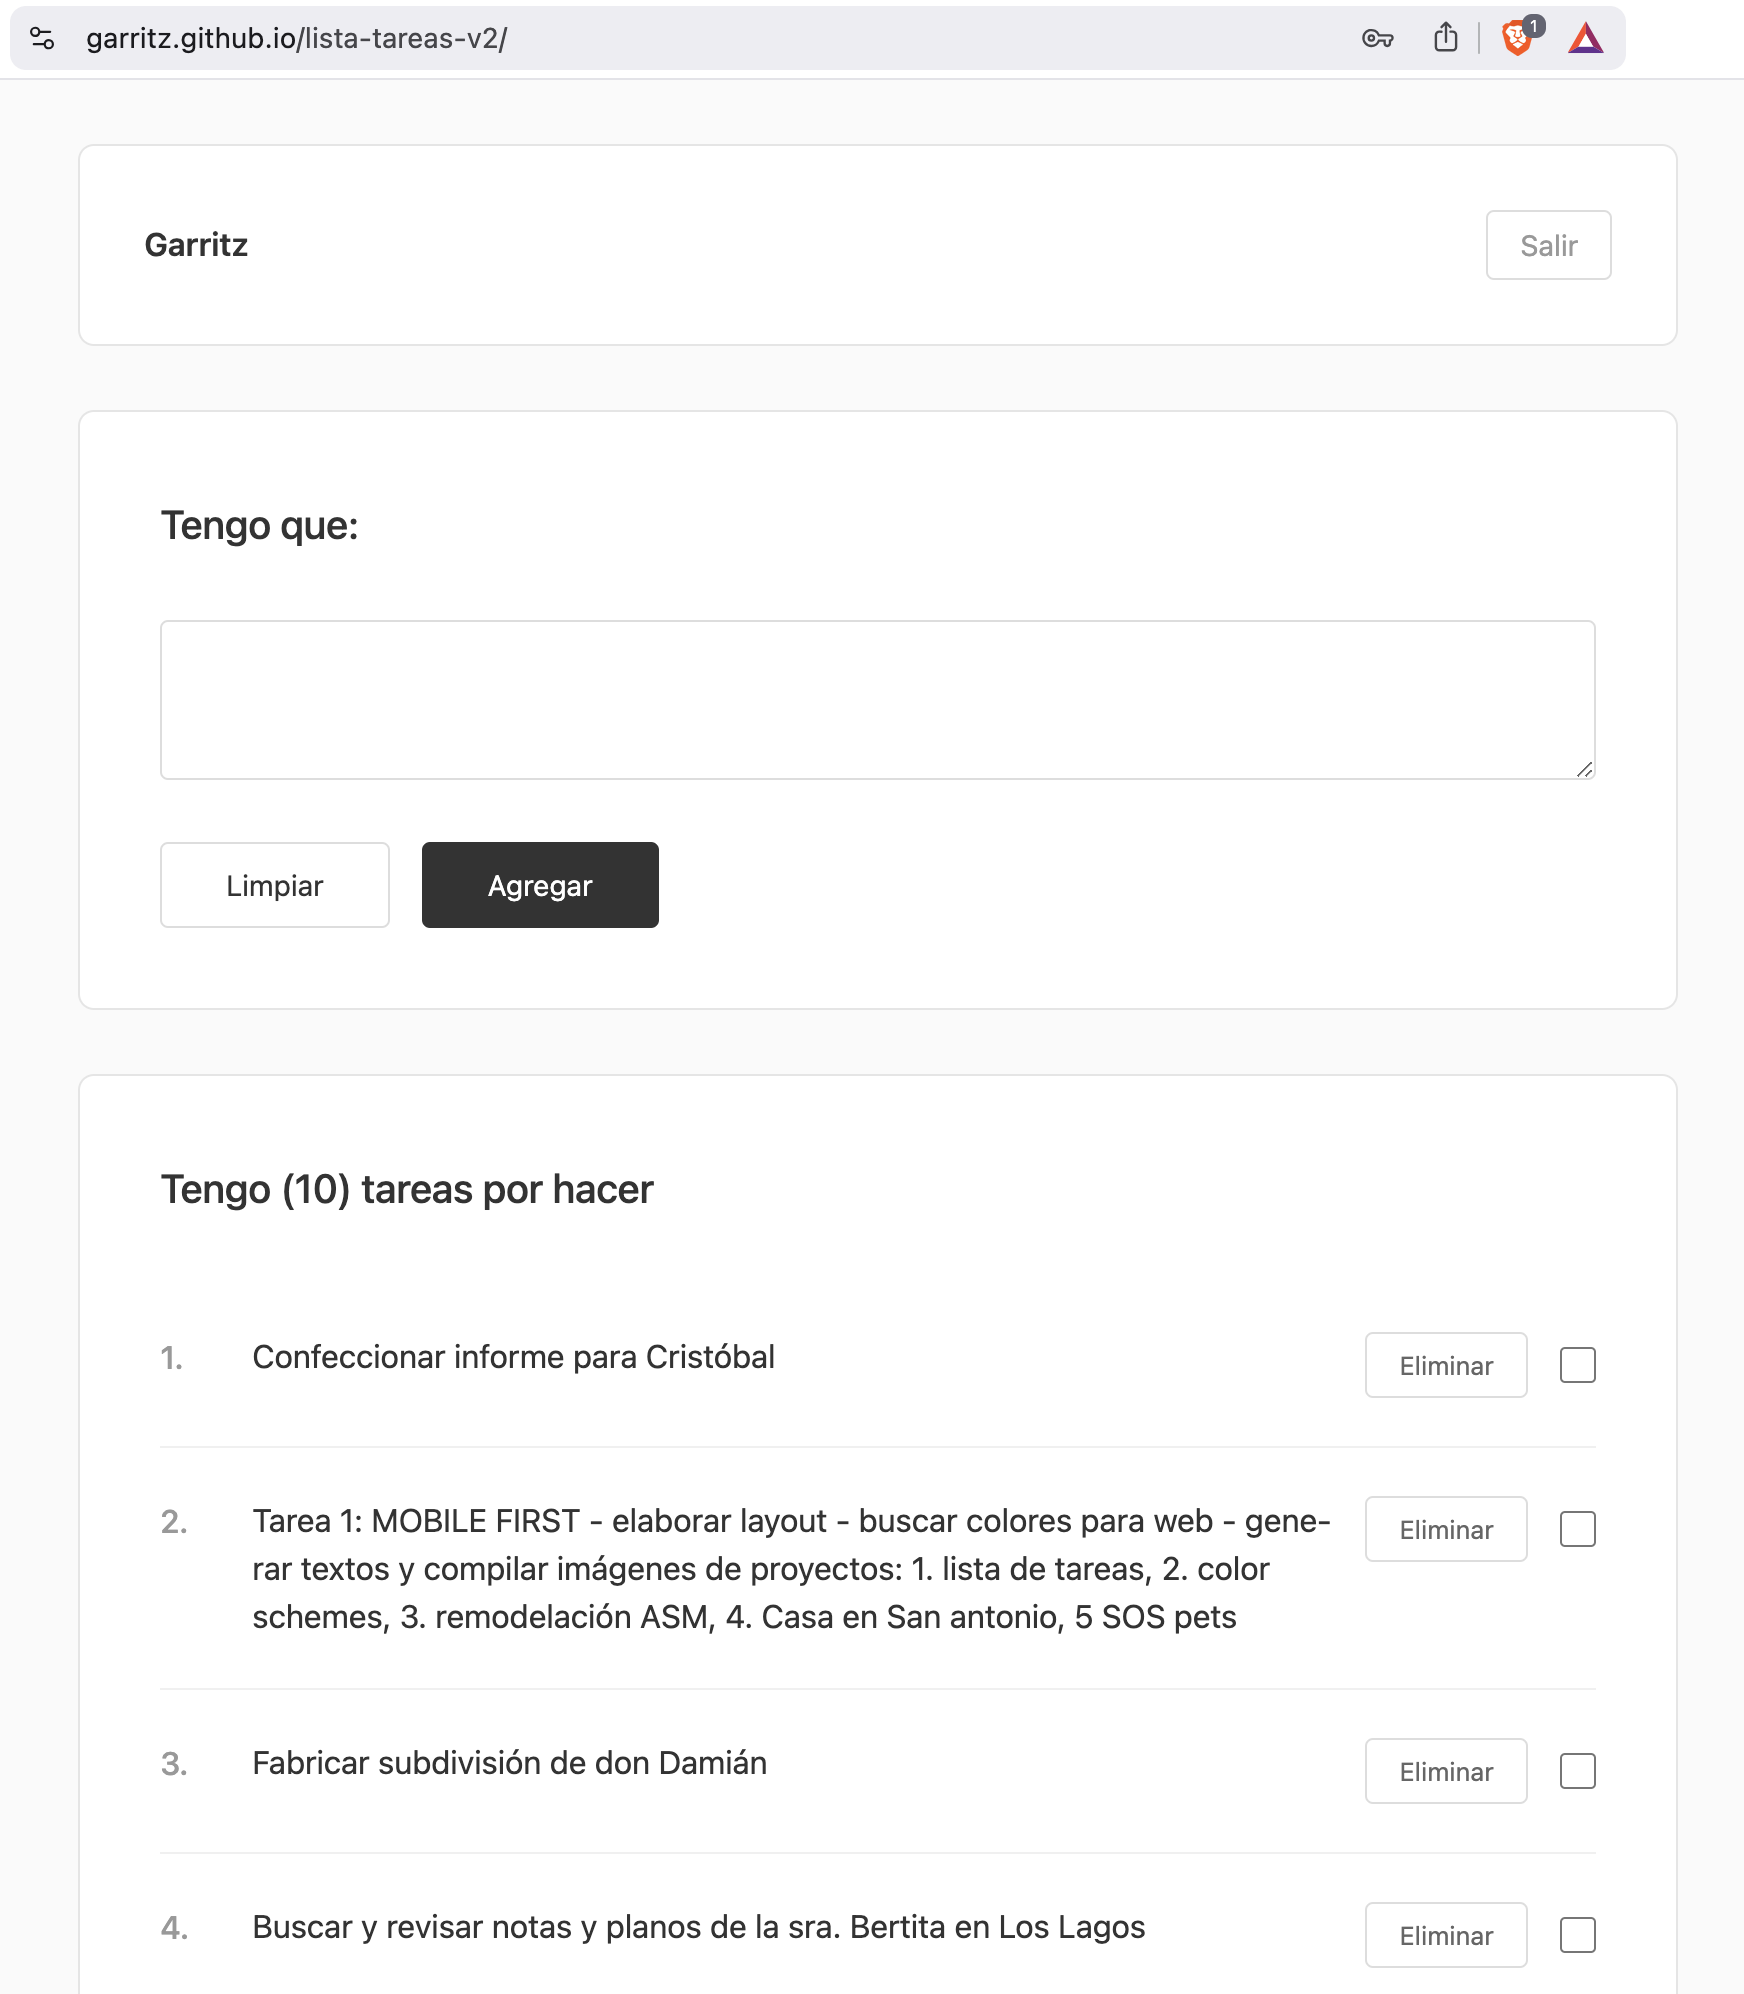
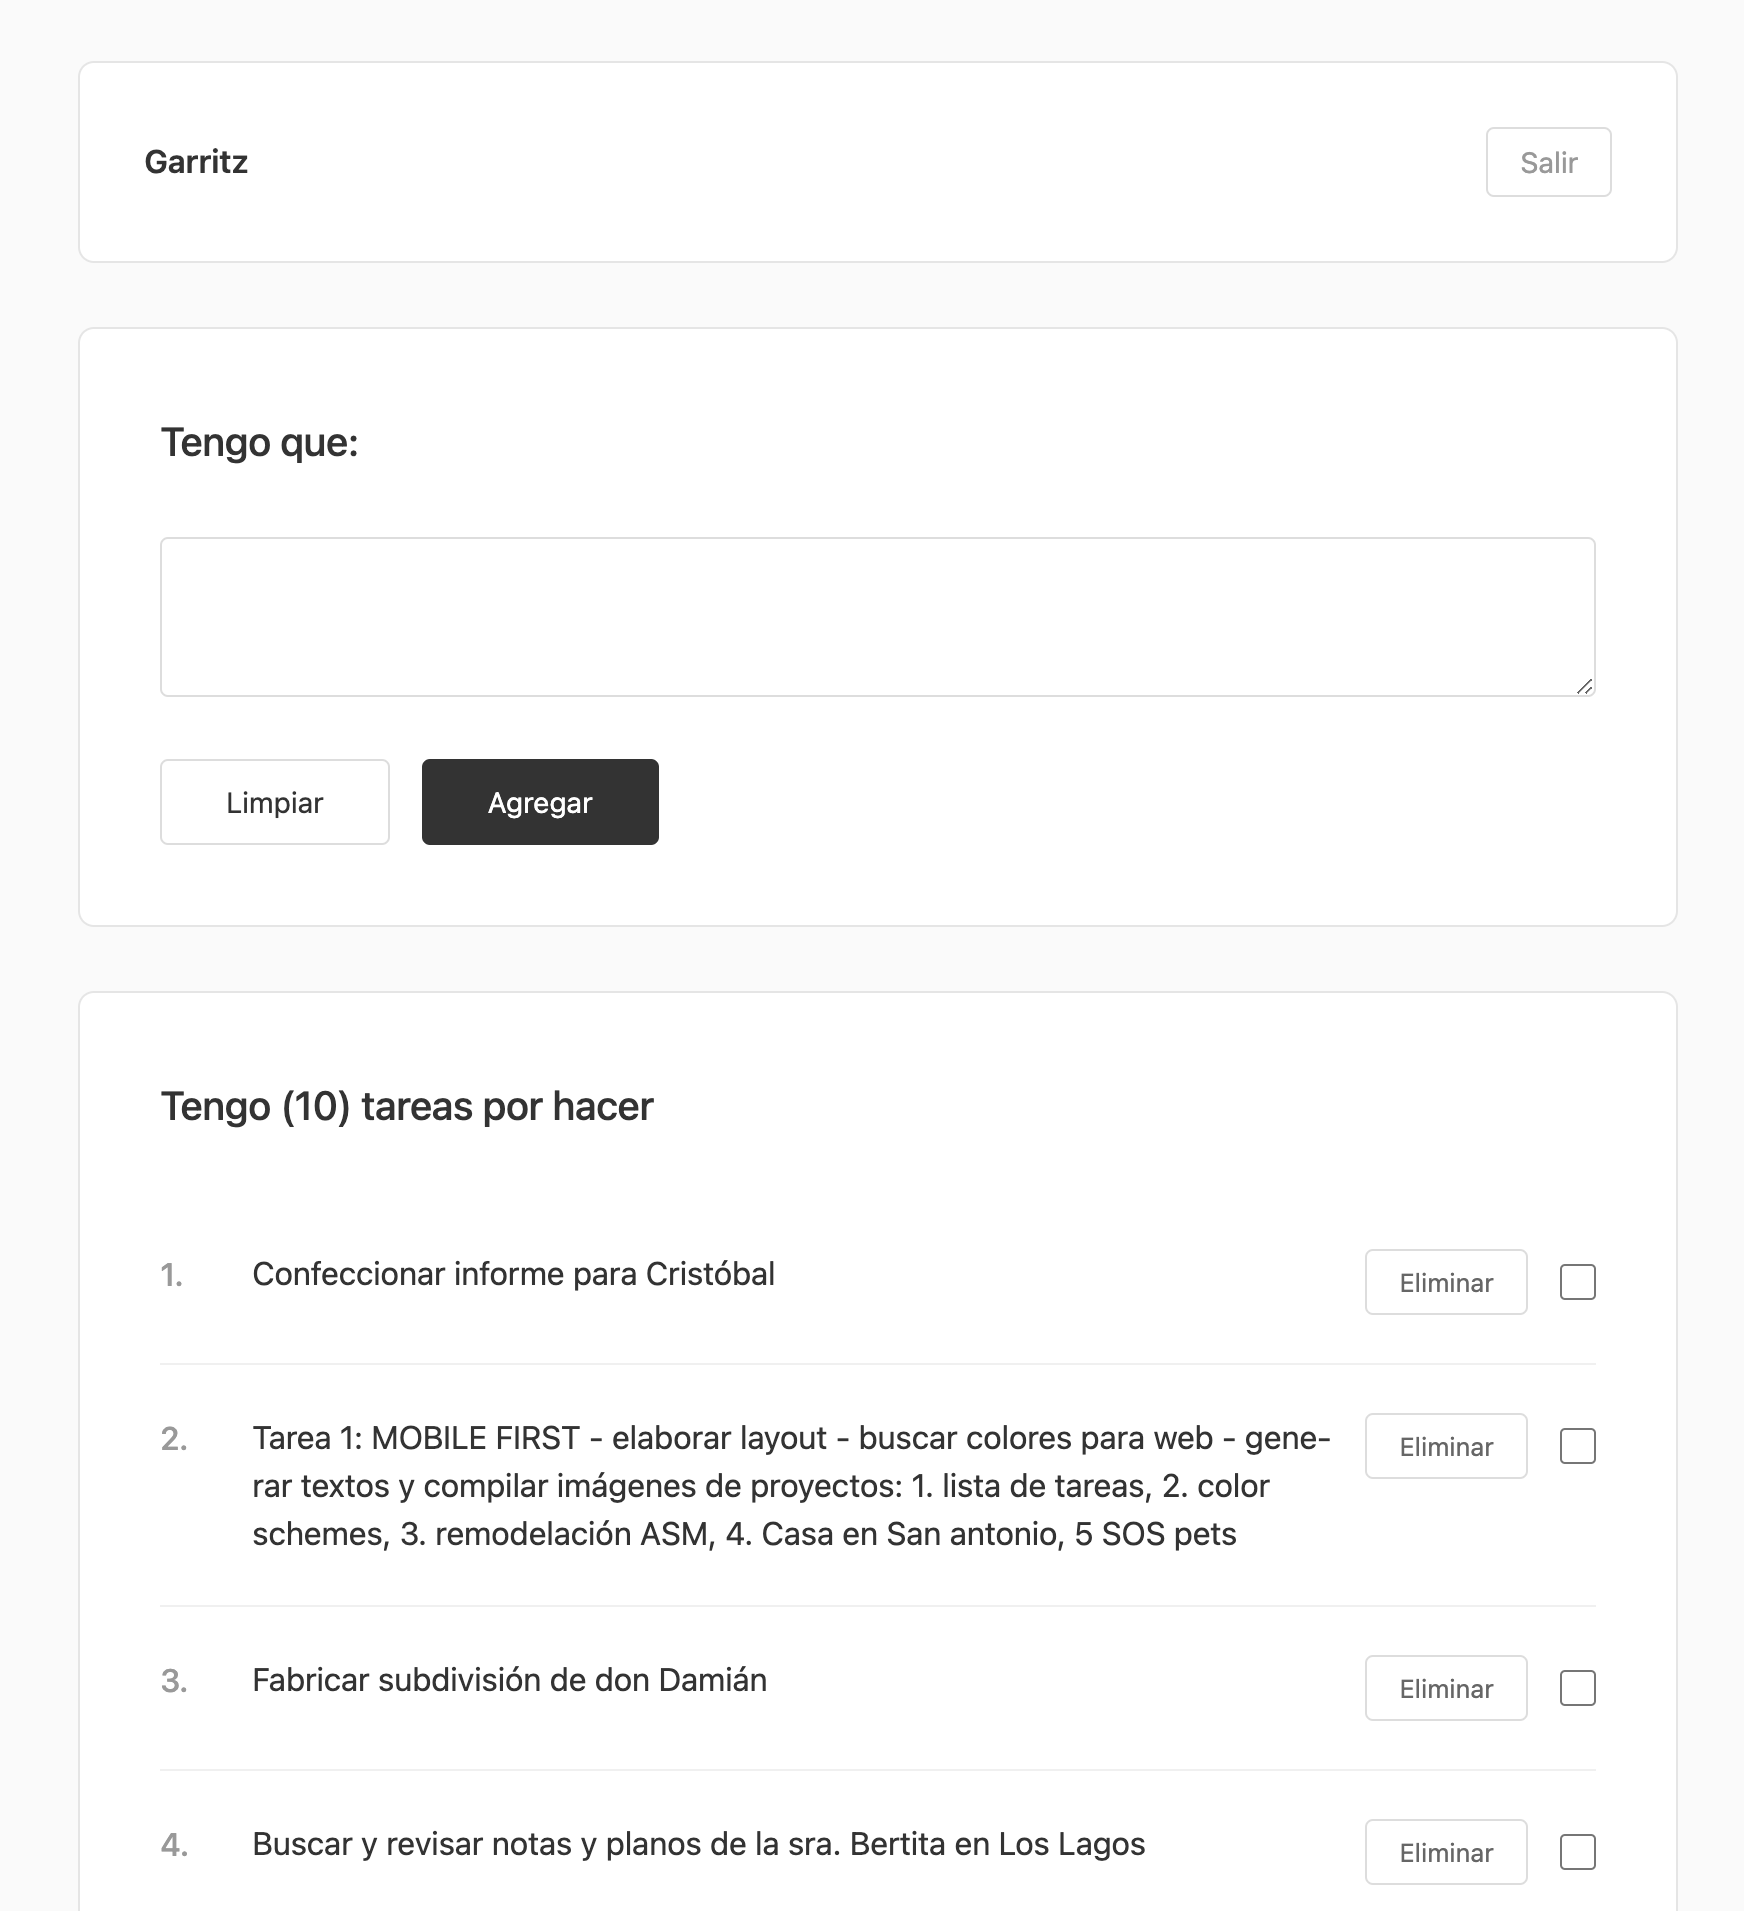
Links agregados

diff --git a/index.html b/index.html
@@ -26,7 +26,7 @@
             display: flex;
             justify-content: start;
             gap: 3rem;
-            padding: 1rem 3.5rem 0.5rem 1.5rem;
+            padding: 0.5rem 3.5rem 0.5rem 1.5rem;
             background-color: #F3F7EE;
             max-width: 500px;
             margin: 0 auto;
@@ -112,7 +112,7 @@
             font-family: 'Open Sans', sans-serif;
             font-weight: 700;
             font-size: 16px;
-            color: #d97662;
+            color: #222222;
             text-decoration: none;
         }
 
@@ -120,11 +120,13 @@
             font-family: 'Bitter', serif;
             font-weight: 700;
             font-size: 20px;
+            color: #222222;
             text-decoration: none;
         }
 
         a.link-body:hover,
         a.link-h2:hover {
+            color: #2F8F84;
             text-decoration: underline;
         }
 
@@ -142,7 +144,7 @@
             margin-bottom: 0;
         }
 
-        .project-item:hover h2 {
+        .project-item:hover h1 {
             color: #2F8F84;
         }
 
@@ -167,7 +169,7 @@
 
         .back-button {
             display: inline-block;
-            color: #2F8F84;
+            color: #222222;
             text-decoration: none;
             margin-bottom: 1.5rem;
             font-family: 'Open Sans', sans-serif;
@@ -233,9 +235,9 @@
             
             <p>En Talento Digital construí una app de gestión de tareas que llevé hasta la nube, aplicando la misma lógica con la que proyecto edificios: estructura, función y experiencia.</p>
             
-            <p>Lo que ofrezco es único: puedo conversar con ingenieros estructurales y con desarrolladores para juntos traducir necesidades del mundo físico a soluciones digitales.</p>
+            <p>Lo que ofrezco es único: puedo sentarme con ingenieros estructurales y con desarrolladores para juntos traducir necesidades del mundo físico a soluciones digitales.</p>
             
-            <p>Actualmente estoy en búsqueda de nuevos desafíos profesionales en PropTech, BIM u otros espacios donde mi doble mirada genere valor real.</p>
+            <p>Actualmente estoy en búsqueda de nuevos desafíos profesionales en PropTech, BIM o construcción, donde mi doble mirada genere valor real.</p>
         </div>
 
         <!-- Sección Proyectos -->
@@ -243,27 +245,27 @@
             <div id="project-list-view">
                 <ul class="project-list">
                     <li class="project-item" data-project="lista-tareas">
-                        <h2>Lista de tareas</h2>
-                        <p class="project-desc">Minimalista y efectiva.</p>
+                        <h1>Lista de tareas</h1>
+                        <p class="subtitle">Minimalista y efectiva.</p>
                     </li>
                     <li class="project-item" data-project="esquemas-color">
-                        <h2>Esquemas de color exterior</h2>
-                        <p class="project-desc">Edificio La Fontana de Santa María.</p>
+                        <h1>Esquemas de color exterior</h1>
+                        <p class="subtitle">Edificio La Fontana de Santa María.</p>
                     </li>
                     <li class="project-item" data-project="casa-san-antonio">
-                        <h2>Casa en San Antonio, Chile</h2>
-                        <p class="project-desc">Remodelación arquitectónica.</p>
+                        <h1>Casa en San Antonio, Chile</h1>
+                        <p class="subtitle">Remodelación arquitectónica.</p>
                     </li>
                     <li class="project-item" data-project="sos-pets">
-                        <h2>S.O.S. Pets</h2>
-                        <p class="project-desc">Proyecto UX/UI.</p>
+                        <h1>S.O.S. Pets</h1>
+                        <p class="subtitle">Proyecto UX/UI.</p>
                     </li>
                 </ul>
             </div>
 
             <!-- Detalles de proyectos -->
             <div id="lista-tareas" class="project-detail">
-                <a href="#" class="back-button" onclick="showProjectList(); return false;">← Volver</a>
+                <a href="#" class="back-button" onclick="showProjectList(); return false;">Volver</a>
                 
                 <h1>Lista de tareas</h1>
                 <h2 class="subtitle">Minimalista y efectiva.</h2>
@@ -271,15 +273,15 @@
                 <p>Una aplicación web multiplataforma diseñada como apoyo cognitivo sin distracciones. Frontend desplegado en GitHub Pages conectado a backend en Render con MongoDB, permitiendo sincronización entre dispositivos y soporte multiusuario. Interfaz austera construida con HTML, CSS y JavaScript vainilla, enfocada en organización diaria efectiva.</p>
                 
                 <div class="project-links">
-                    <a href="https://github.com/Garritz" target="_blank" class="link-body">Código fuente en Github.</a>
-                    <a href="#" onclick="alert('Demo de la app'); return false;" class="link-body">Enlace a la app.</a>
+                    <a href="https://github.com/Garritz/lista-tareas-v2.git" target="_blank" class="link-body">Código fuente en Github.</a>
+                    <a href="https://garritz.github.io/lista-tareas-v2/" target="_blank" class="link-body">Enlace a la app.</a>
                 </div>
 
                 <img src="/assets/img/tareas.png" alt="Lista de tareas app" class="project-image">
             </div>
 
             <div id="esquemas-color" class="project-detail">
-                <a href="#" class="back-button" onclick="showProjectList(); return false;">← Volver</a>
+                <a href="#" class="back-button" onclick="showProjectList(); return false;">Volver</a>
                 
                 <h1>Esquemas de color exterior</h1>
                 <h2 class="subtitle">Edificio La Fontana de Santa María.</h2>
@@ -287,15 +289,15 @@
                 <p>Construí un sitio web estático para presentar las opciones de color de pintura exterior para el edificio.</p>
                 
                 <div class="project-links">
-                    <a href="https://github.com/Garritz" target="_blank" class="link-body">Código fuente en Github.</a>
-                    <a href="#" onclick="alert('Ver sitio web'); return false;" class="link-body">Enlace al sitio web.</a>
+                    <a href="https://github.com/Garritz/Site.git" target="_blank" class="link-body">Código fuente en Github.</a>
+                    <a href="https://garritz.github.io/Site/" target="_blank" class="link-body">Enlace al sitio web.</a>
                 </div>
                 
                 <img src="/assets/img/fontana.jpg" alt="Edificio La Fontana" class="project-image">
             </div>
 
             <div id="casa-san-antonio" class="project-detail">
-                <a href="#" class="back-button" onclick="showProjectList(); return false;">← Volver</a>
+                <a href="#" class="back-button" onclick="showProjectList(); return false;">Volver</a>
                 
                 <h1>Casa en San Antonio, Chile</h1>
                 <h2 class="subtitle">Remodelación arquitectónica.</h2>
@@ -306,7 +308,7 @@
             </div>
 
             <div id="sos-pets" class="project-detail">
-                <a href="#" class="back-button" onclick="showProjectList(); return false;">← Volver</a>
+                <a href="#" class="back-button" onclick="showProjectList(); return false;">Volver</a>
                 
                 <h1>S.O.S. Pets</h1>
                 <h2 class="subtitle">Proyecto UX/UI.</h2>
@@ -314,7 +316,8 @@
                 <p>Basados en la metodología Design Thinking, y usando herramientas como cardsorting e inventario de contenidos, diseñamos la interfaz de usuario de S.O.S. Pets, aplicación móvil que cubre la primera necesidad de "crear alerta" para buscar una mascota perdida y que pueda volver a reencontrarse con su familia.</p>
                 
                 <div class="project-links">
-                    <a href="https://www.behance.net" target="_blank" class="link-body">Link en Behance.</a>
+                    <a href="https://www.figma.com/design/nMOgMSqESS599qjFn5KTz7/SOS-Pets-Unificado?node-id=1-4&t=ee8B5TCSijTg360J-1" target="_blank" class="link-body">Link en Figma.</a>
+                    <a href="https://www.behance.net/gallery/194151671/SOS-Pets" target="_blank" class="link-body">Link en Behance.</a>
                 </div>
 
                 <img src="/assets/img/sospets.jpg" alt="S.O.S. Pets App" class="project-image">
